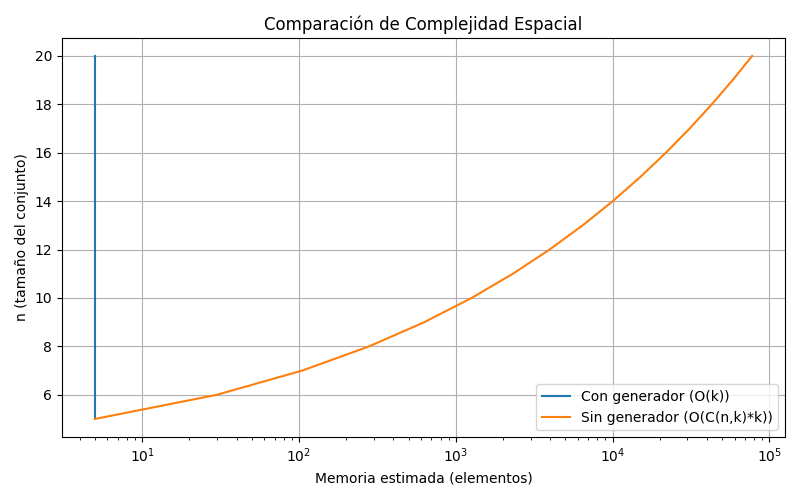
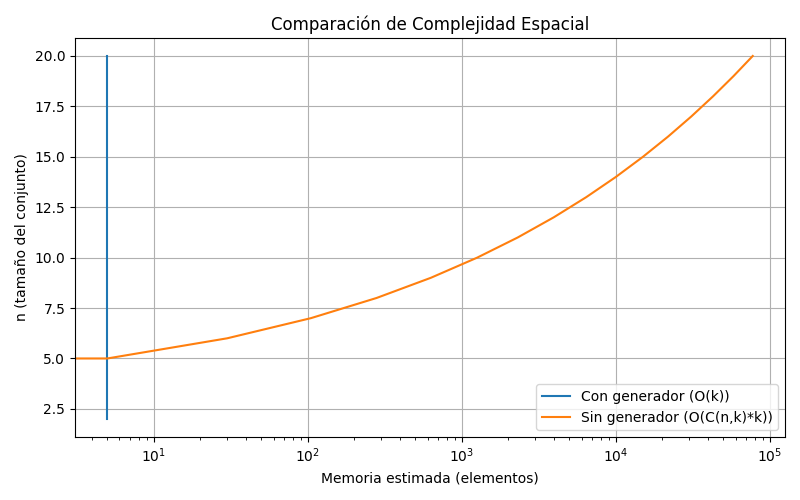
min scale level

diff --git a/graficador.py b/graficador.py
@@ -7,7 +7,7 @@ import os
 os.makedirs('images', exist_ok=True)
 
 # --- Gráfica 1: Complejidad temporal teórica O(n^k * k * log(L)) ---
-n_values = np.arange(5, 21, 1)
+n_values = np.arange(2, 21, 1)  # Cambiado de 5 a 2
 k = 5
 L = 10**6  # Valor arbitrario para L
 complexity = [n**k * k * np.log2(L) for n in n_values]
@@ -40,9 +40,9 @@ plt.tight_layout()
 plt.savefig('images/complejidad_espacial_ejes_invertidos.png')
 plt.show()
 
-# --- Gráfica 3: Tiempos reales de ejecución (simulados, reemplaza con tus datos reales) ---
-escenarios = ["Caso Base", "Medio 1", "Medio 2", "Medio 3", "Medio-Alto", "Alto 1", "Alto 2", "Muy Alto"]
-tiempos = [0.01, 0.05, 0.2, 0.5, 2.0, 10.0, 60.0, 180.0]  # segundos, ajusta según tus resultados
+# --- Gráfica 3: Tiempos reales de ejecución ---
+escenarios = ["Caso Base", "Medio 1", "Medio 2", "Medio 3", "Medio-Alto", "Alto 1", "Alto 2"]
+tiempos = [0.1523, 0.1486, 0.4897, 0.7411, 14.0720, 60.2780, 180.0]  # segundos, datos reales del benchmark
 
 plt.figure(figsize=(10,5))
 plt.plot(tiempos, escenarios, marker='o')

diff --git a/benchmark_no_itertools.py b/benchmark_no_itertools.py
@@ -52,8 +52,8 @@ def solve_lcm_pfc_no_itertools(S, T, k, verbose=True):
 # --- Bloque de Pruebas de Rendimiento ---
 
 TEST_SCENARIOS = [
-    {"name": "Caso Base", "n": 10, "k": 5, "max_val": 100},
-    {"name": "Medio 1", "n": 15, "k": 5, "max_val": 500},
+    {"name": "Caso Base", "n": 4, "k": 2, "max_val": 100},
+    {"name": "Medio 1", "n": 10, "k": 4, "max_val": 500},
     {"name": "Medio 2", "n": 15, "k": 7, "max_val": 500},
     {"name": "Medio 3", "n": 20, "k": 5, "max_val": 1000},
     {"name": "Medio-Alto", "n": 20, "k": 10, "max_val": 1000},
